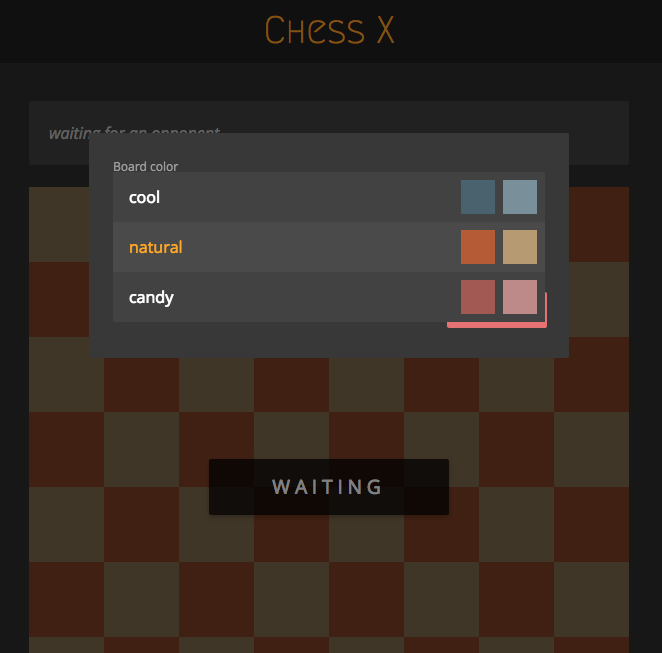
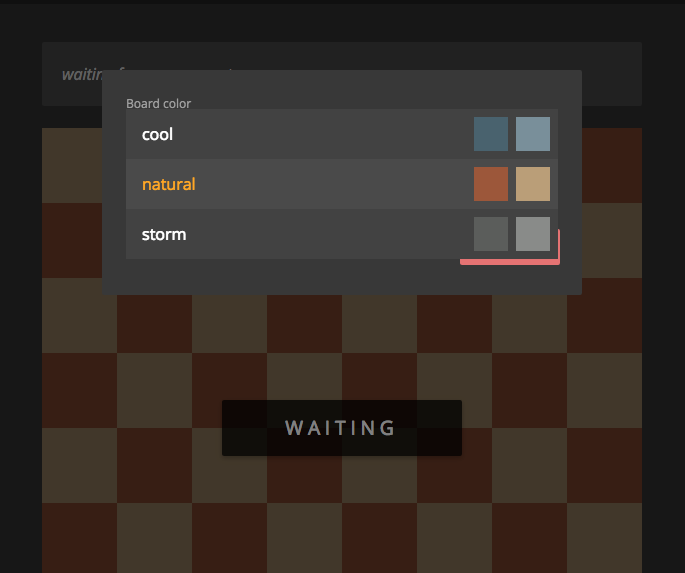
update board colors and about

diff --git a/app/components/game/overlay.js b/app/components/game/overlay.js
@@ -15,6 +15,7 @@ class Overlay extends React.Component {
     this.waiting = this.waiting.bind(this);
     this.starting = this.starting.bind(this);
     this.archived = this.archived.bind(this);
+    this.winnerText = this.winnerText.bind(this);
 
     this.state = { status: this.props.status, winner: this.props.winner, playbackStatus: Playback.status() };
   }
@@ -94,6 +95,13 @@ class Overlay extends React.Component {
     }
   }
 
+  winnerText() {
+    if (this.state.winner)
+      return this.state.winner === 'draw' ? 'draw' : this.state.winner + ' won';
+    else
+      return '';
+  }
+
   performCountdown() {
     if (this.countdown) {
       this.countdown -= 1;
@@ -128,7 +136,7 @@ class Overlay extends React.Component {
           <div id='board-status' ref='status' className='z-depth-1'>
             <span>{this.state.statusText}</span>
             <span id='win-text' className='grey-text'>
-              {this.state.winner && this.state.winner === 'draw' ? 'draw' : this.state.winner + ' won' }
+              { this.winnerText() }
             </span>
           </div>
         </div>

diff --git a/app/stylesheets/colors.scss b/app/stylesheets/colors.scss
@@ -11,7 +11,7 @@ $link-color: color("light-blue", "base");
 // GAME COLOR SCHEMES
 $cool-white: hsl(200, 14, 54);
 $cool-black: hsl(200, 20, 36);
-$natural-white: hsl(35, 32, 58);
-$natural-black: hsl(18, 54, 46);
-$candy-white: hsl(1, 28, 64);
-$candy-black: hsl(4, 32, 48);
+$natural-white: hsl(35, 32, 60);
+$natural-black: hsl(18, 46, 42);
+$storm-white: hsl(120, 1, 54);
+$storm-black: hsl(120, 1, 36);

diff --git a/app/components/about/about.js b/app/components/about/about.js
@@ -50,7 +50,7 @@ class About extends React.Component {
             </p>
             <h3>Spectate</h3>
             <p>
-              If you're not sure what to do, watch a game first.
+              If you're not sure what to do, try watching a game.
               You can watch any games that are in progress.
               Spectators aren't allowed to make moves.
             </p>

diff --git a/app/stylesheets/game.scss b/app/stylesheets/game.scss
@@ -85,12 +85,12 @@
         background-color: $natural-black;
       }
     }
-    .candy {
+    .storm {
       .light {
-        background-color: $candy-white;
+        background-color: $storm-white;
       }
       .dark {
-        background-color: $candy-black;
+        background-color: $storm-black;
       }
     }
   }

diff --git a/app/stylesheets/board.scss b/app/stylesheets/board.scss
@@ -109,12 +109,12 @@
     }
   }
 
-  &.candy-board {
+  &.storm-board {
     .white-square {
-      background-color: $candy-white;
+      background-color: $storm-white;
     }
     .black-square {
-      background-color: $candy-black;
+      background-color: $storm-black;
     }
   }
 }

diff --git a/app/components/game/game_settings.js b/app/components/game/game_settings.js
@@ -1,5 +1,5 @@
 import React from 'react';
-const COLORS = ['cool', 'natural', 'candy'];
+const COLORS = ['cool', 'natural', 'storm'];
 
 class BoardSettings extends React.Component {
   constructor(props) {

diff --git a/docs/TODO.md b/docs/TODO.md
@@ -4,6 +4,8 @@
 - handle deployment with active games
   - stop accepting new games
   - delay deploy until active games are complete (max 30 minutes)
+- CSRF
+- Intro
 
 ## Monitoring
 - server memory usage
@@ -33,6 +35,7 @@
 ## Game Features
 - rematch
 - start new game
+- single player
 
 ## About Page
 - Getting started
